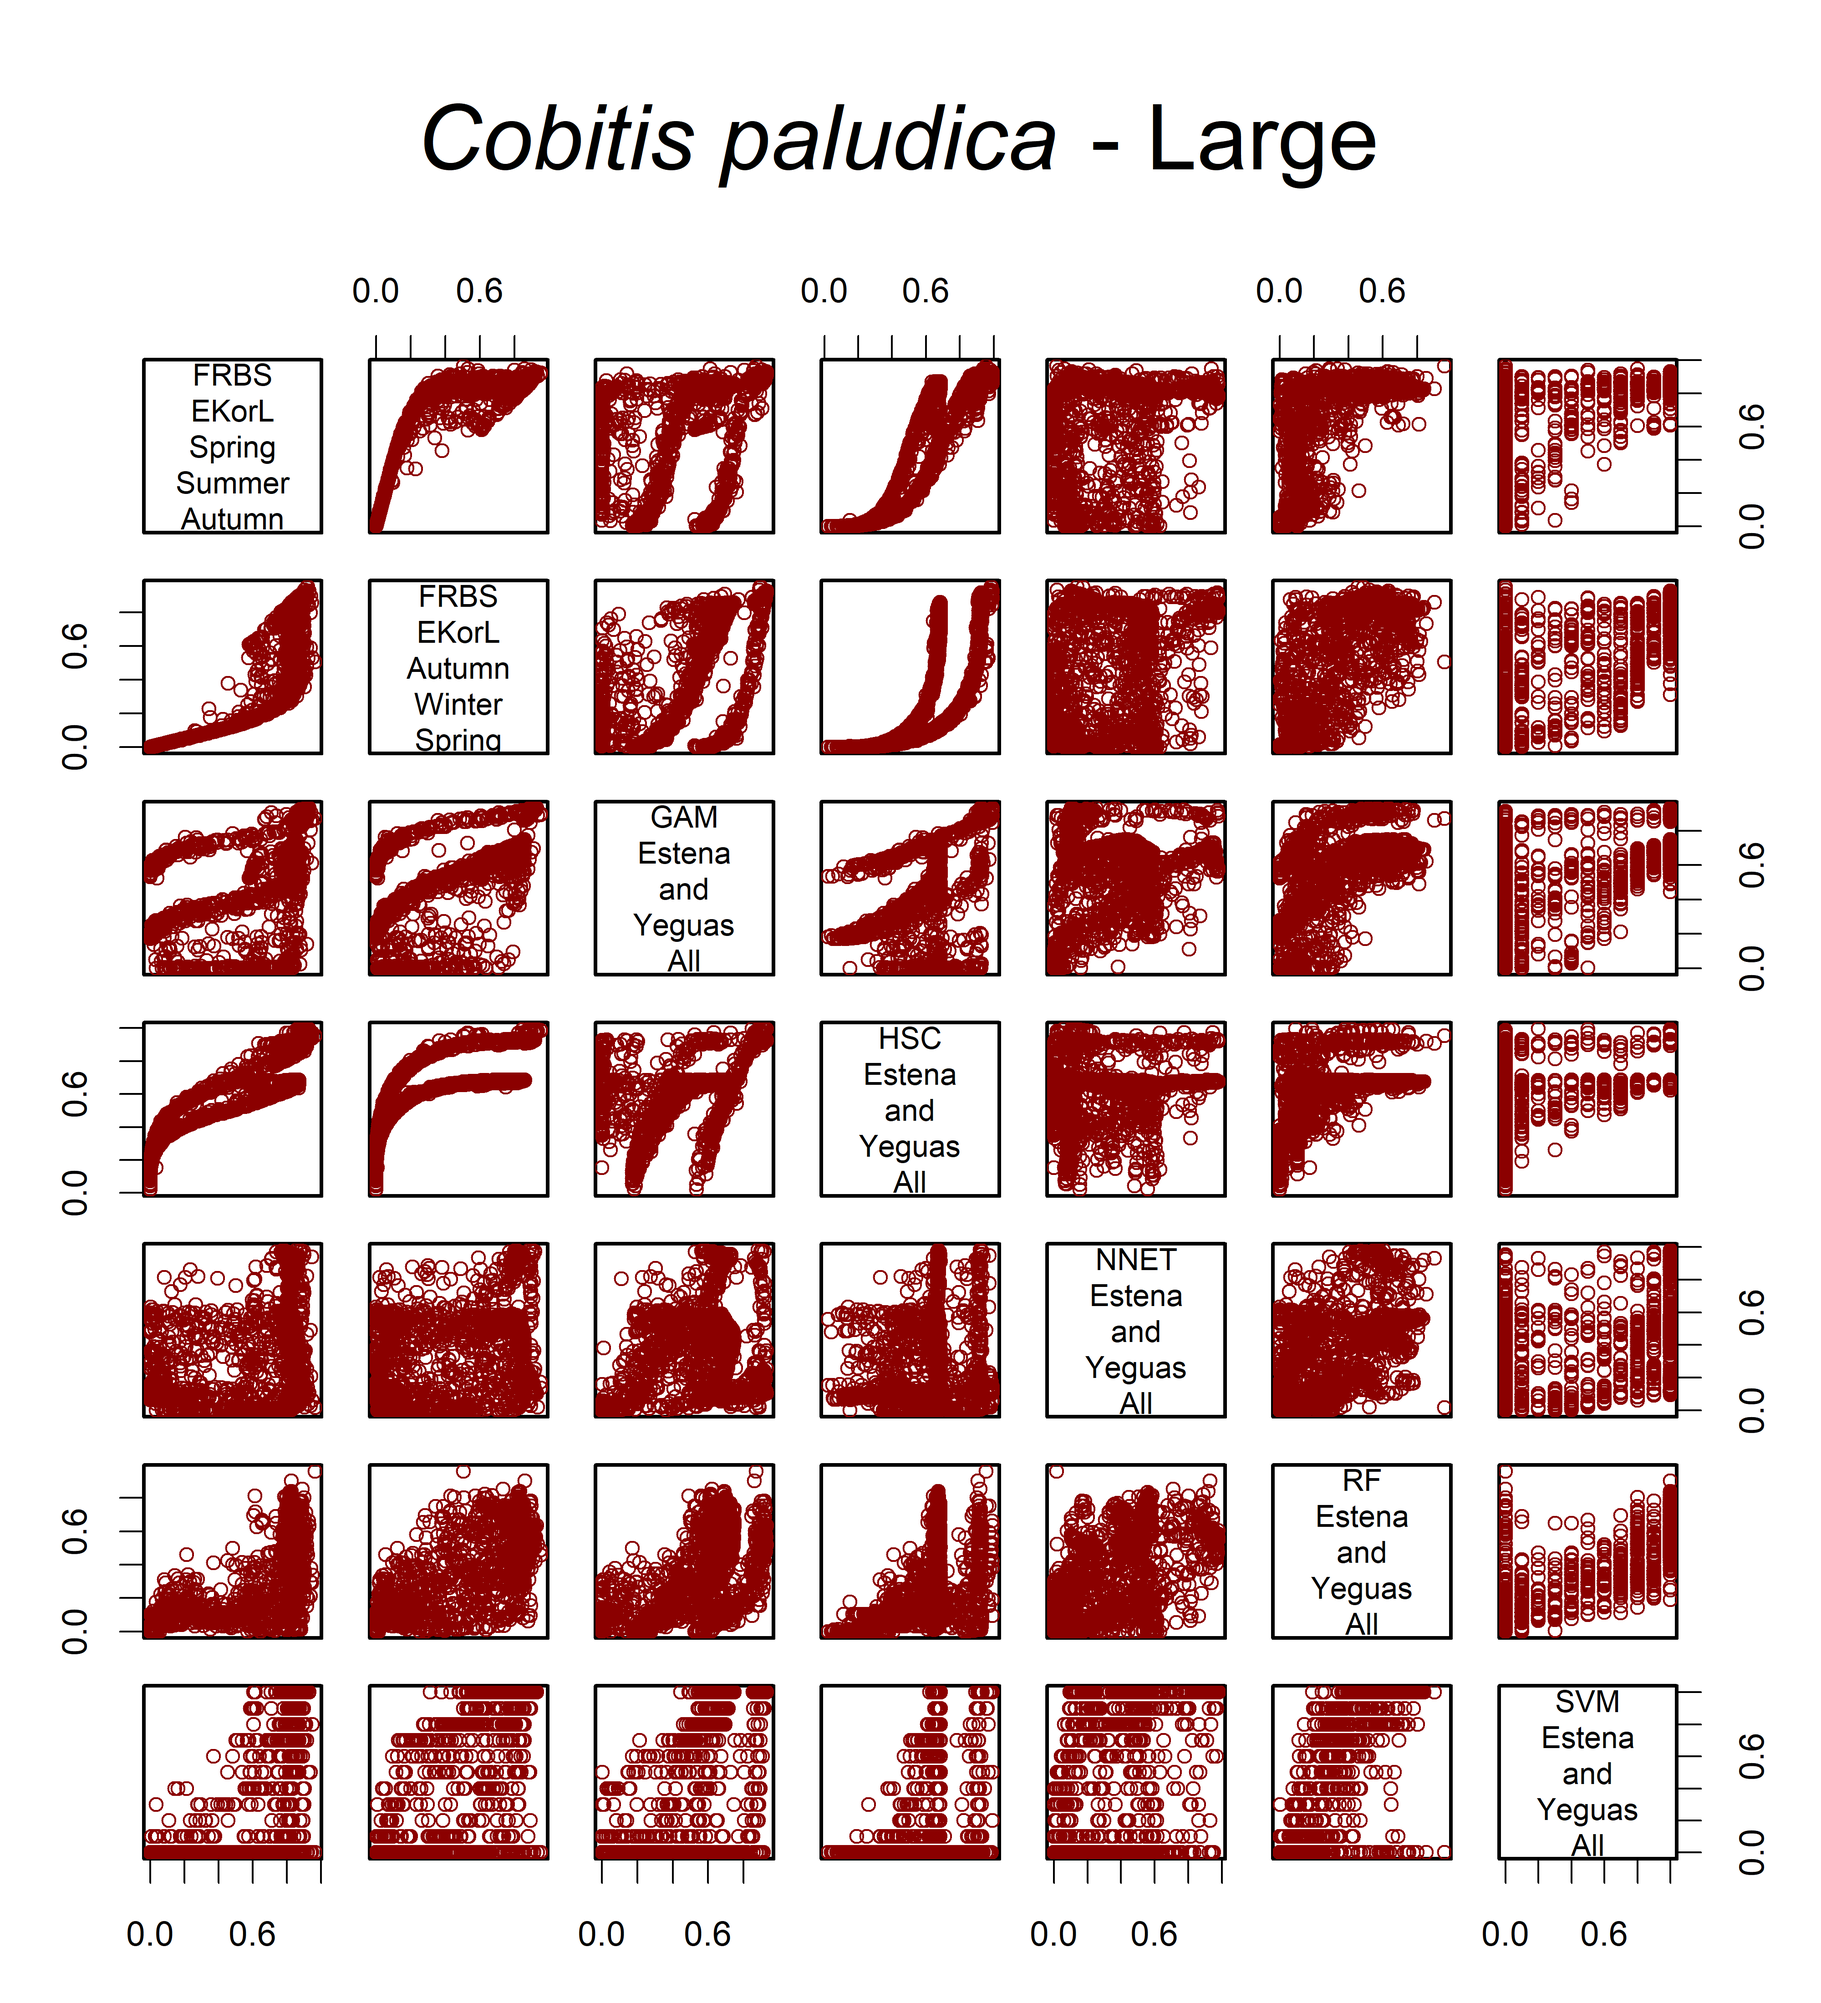
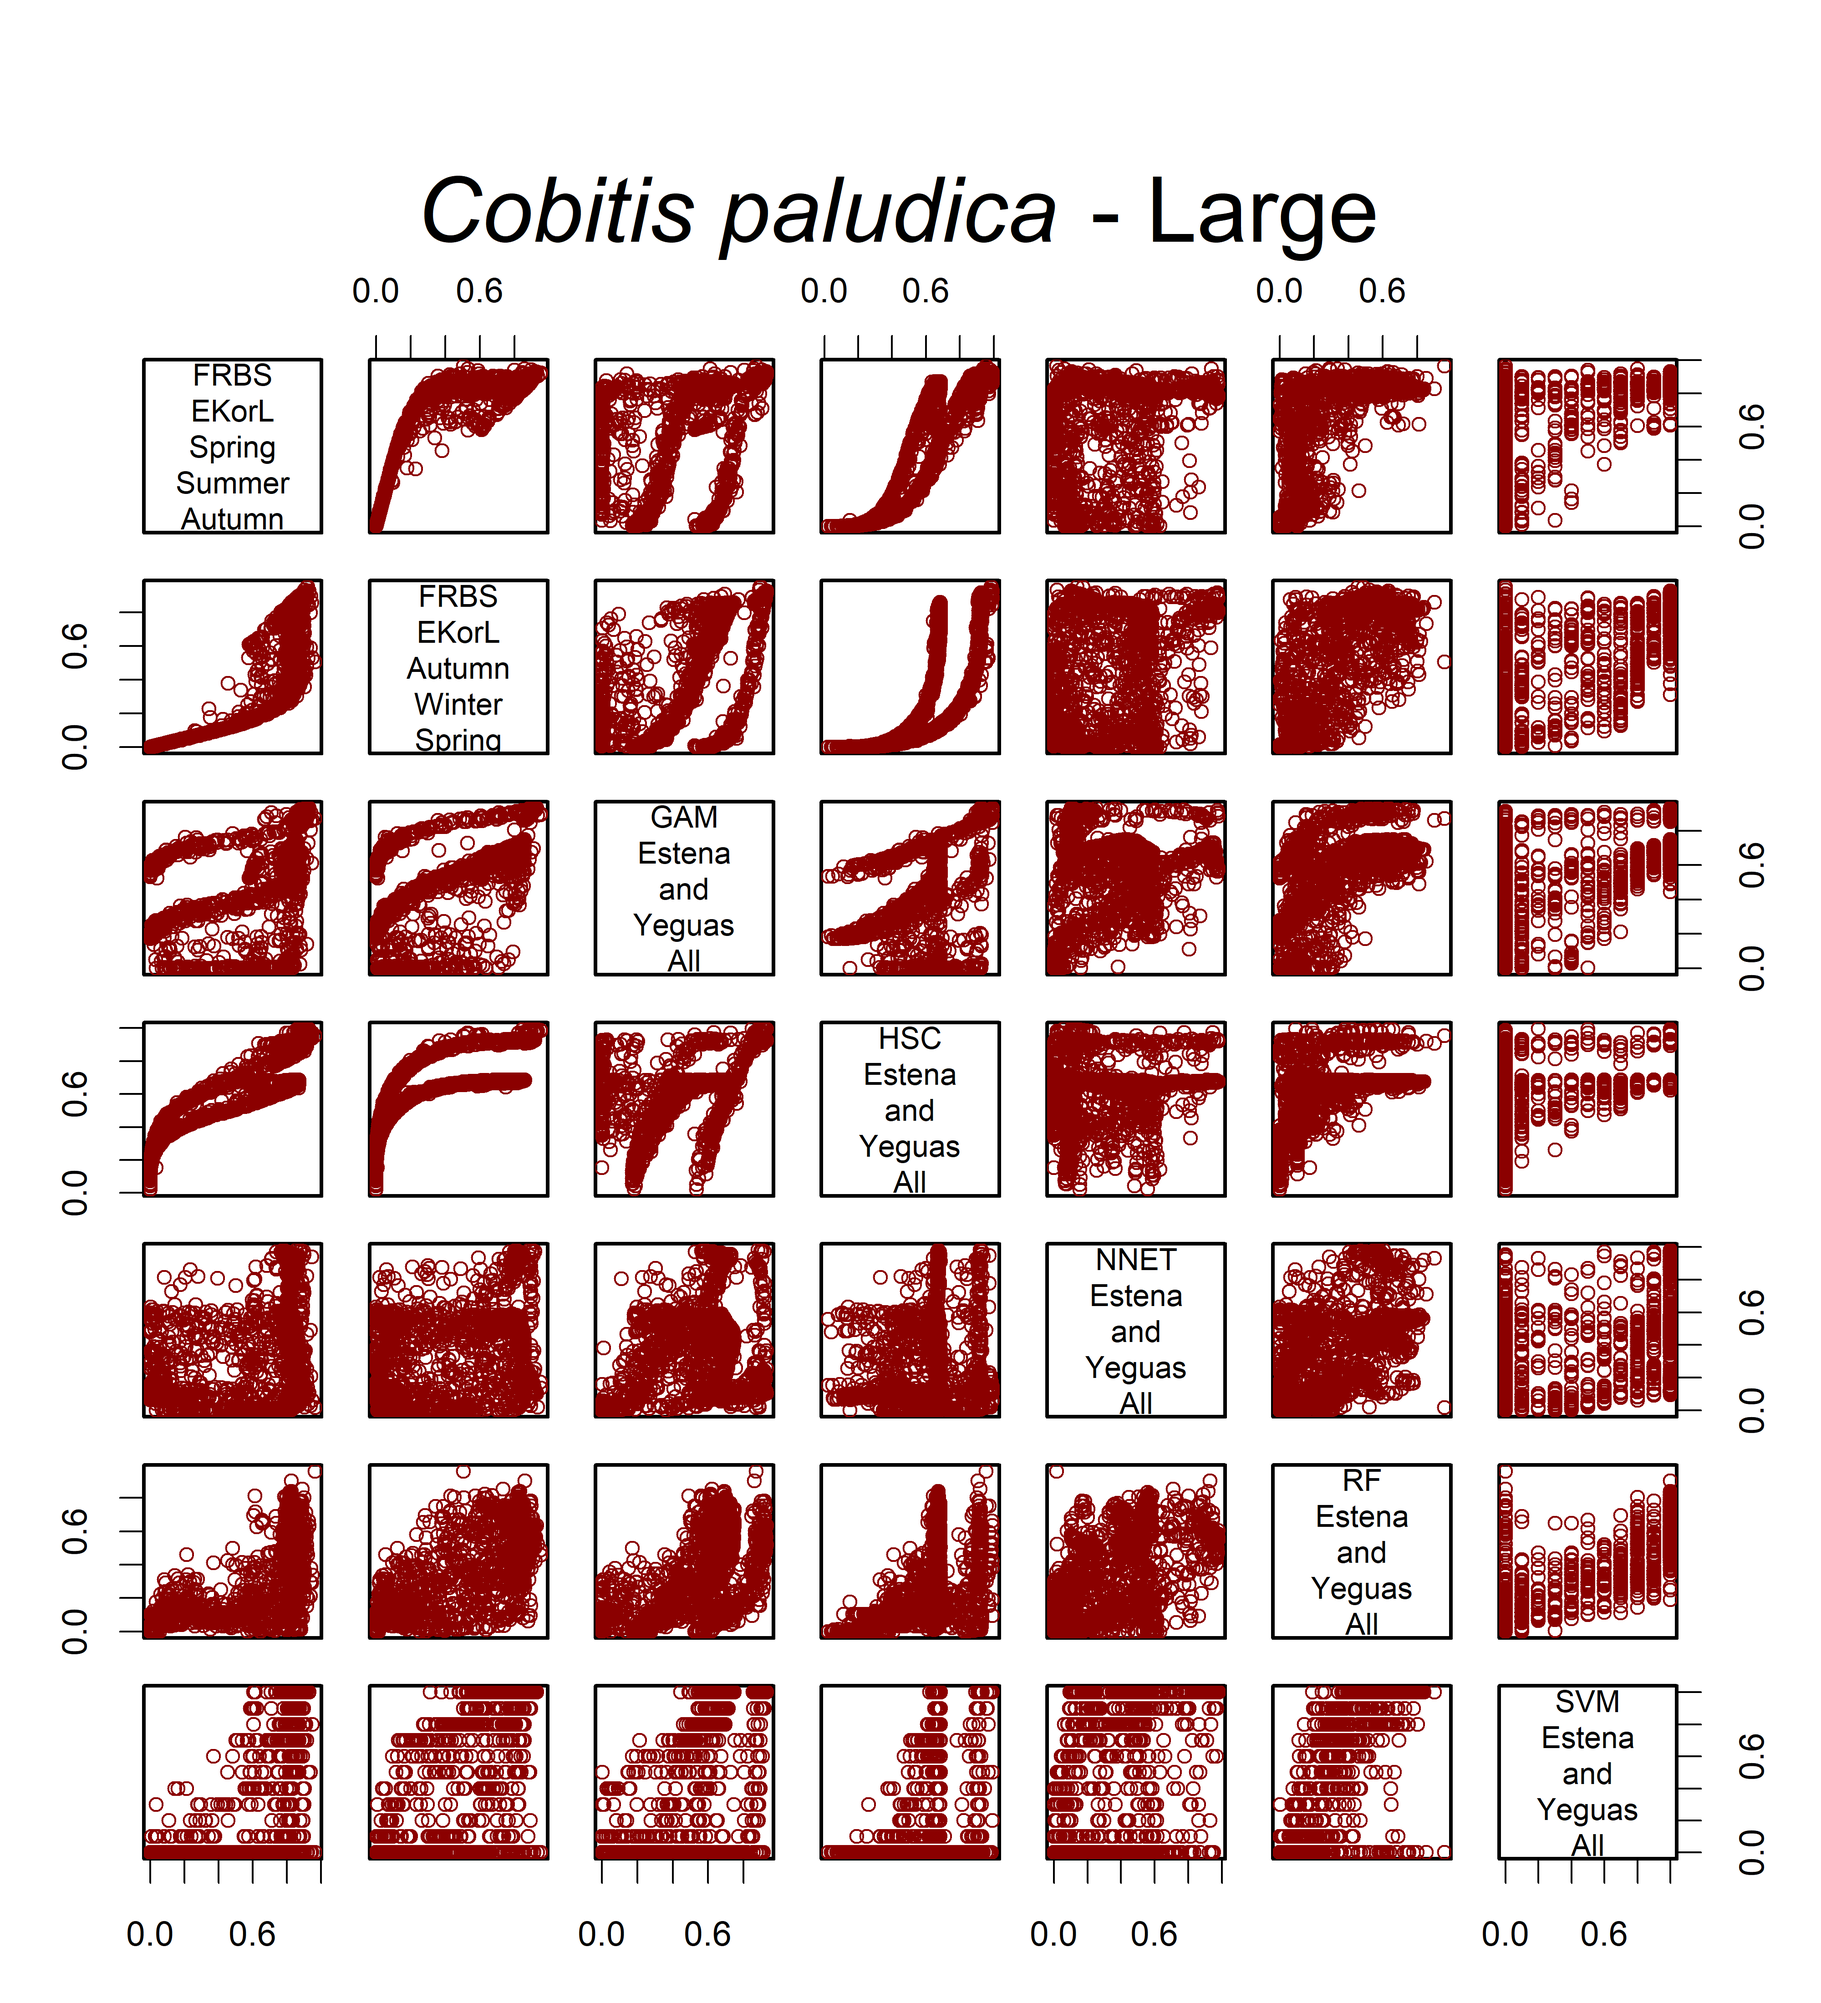
Readme

Changed region(s): [[0.2188, 0.0623, 0.5938, 0.1245], [0.625, 0.0623, 0.75, 0.1245]]

diff --git a/README.md b/README.md
@@ -1028,7 +1028,7 @@ summary(Predictions)
 
 pairs(Predictions, col = "red4", oma = c(2.5, 2.5, 7, 2.5), cex.labels = 0.75, lwd = 0.5, cex = 0.75, cex.axis = 0.85)
 
-title(substitute(expr = paste(italic(Species), Size, sep =" "), env = list(Species = Species, Size = Size)), outer = T, line = -2, adj = 0.5, cex.main = 1.5)
+title(substitute(expr = paste(italic(Species), Size, sep =" "), env = list(Species = Species, Size = Size)), outer = T, line = -3, adj = 0.5, cex.main = 1.5)
 ```
 
 <img src="man/figures/README-pairplot-1.png" width="100%" />
